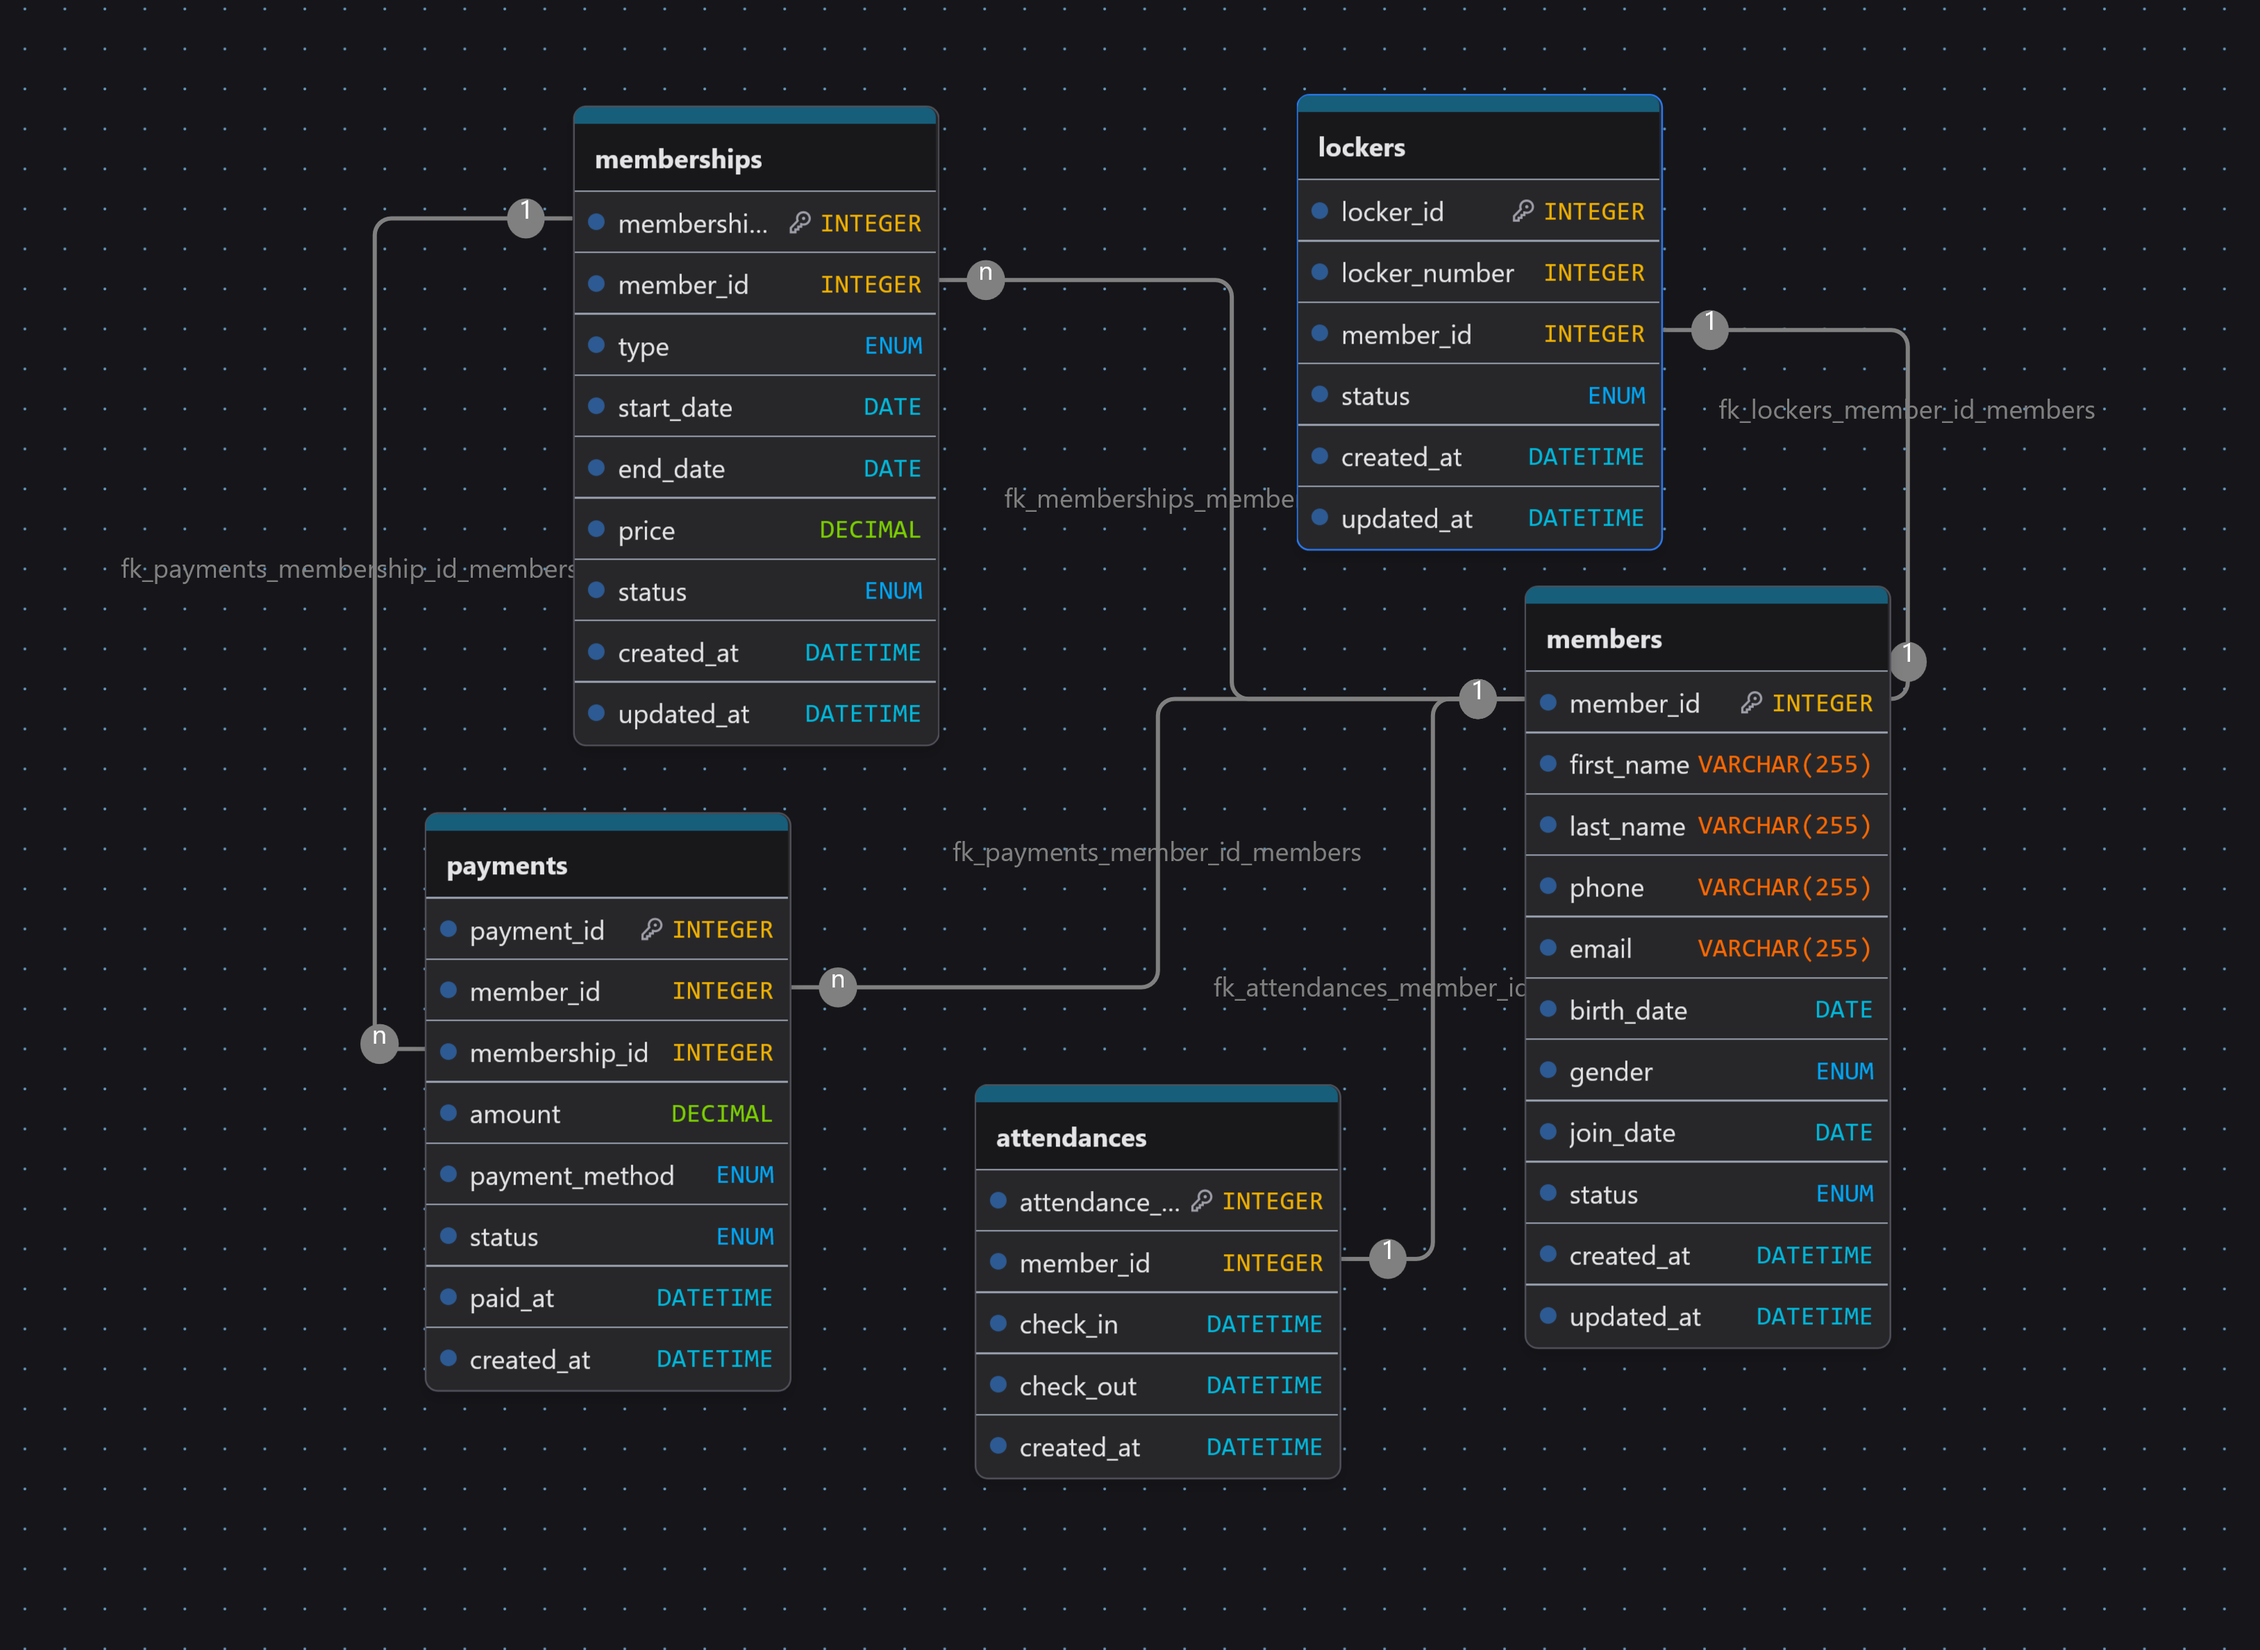
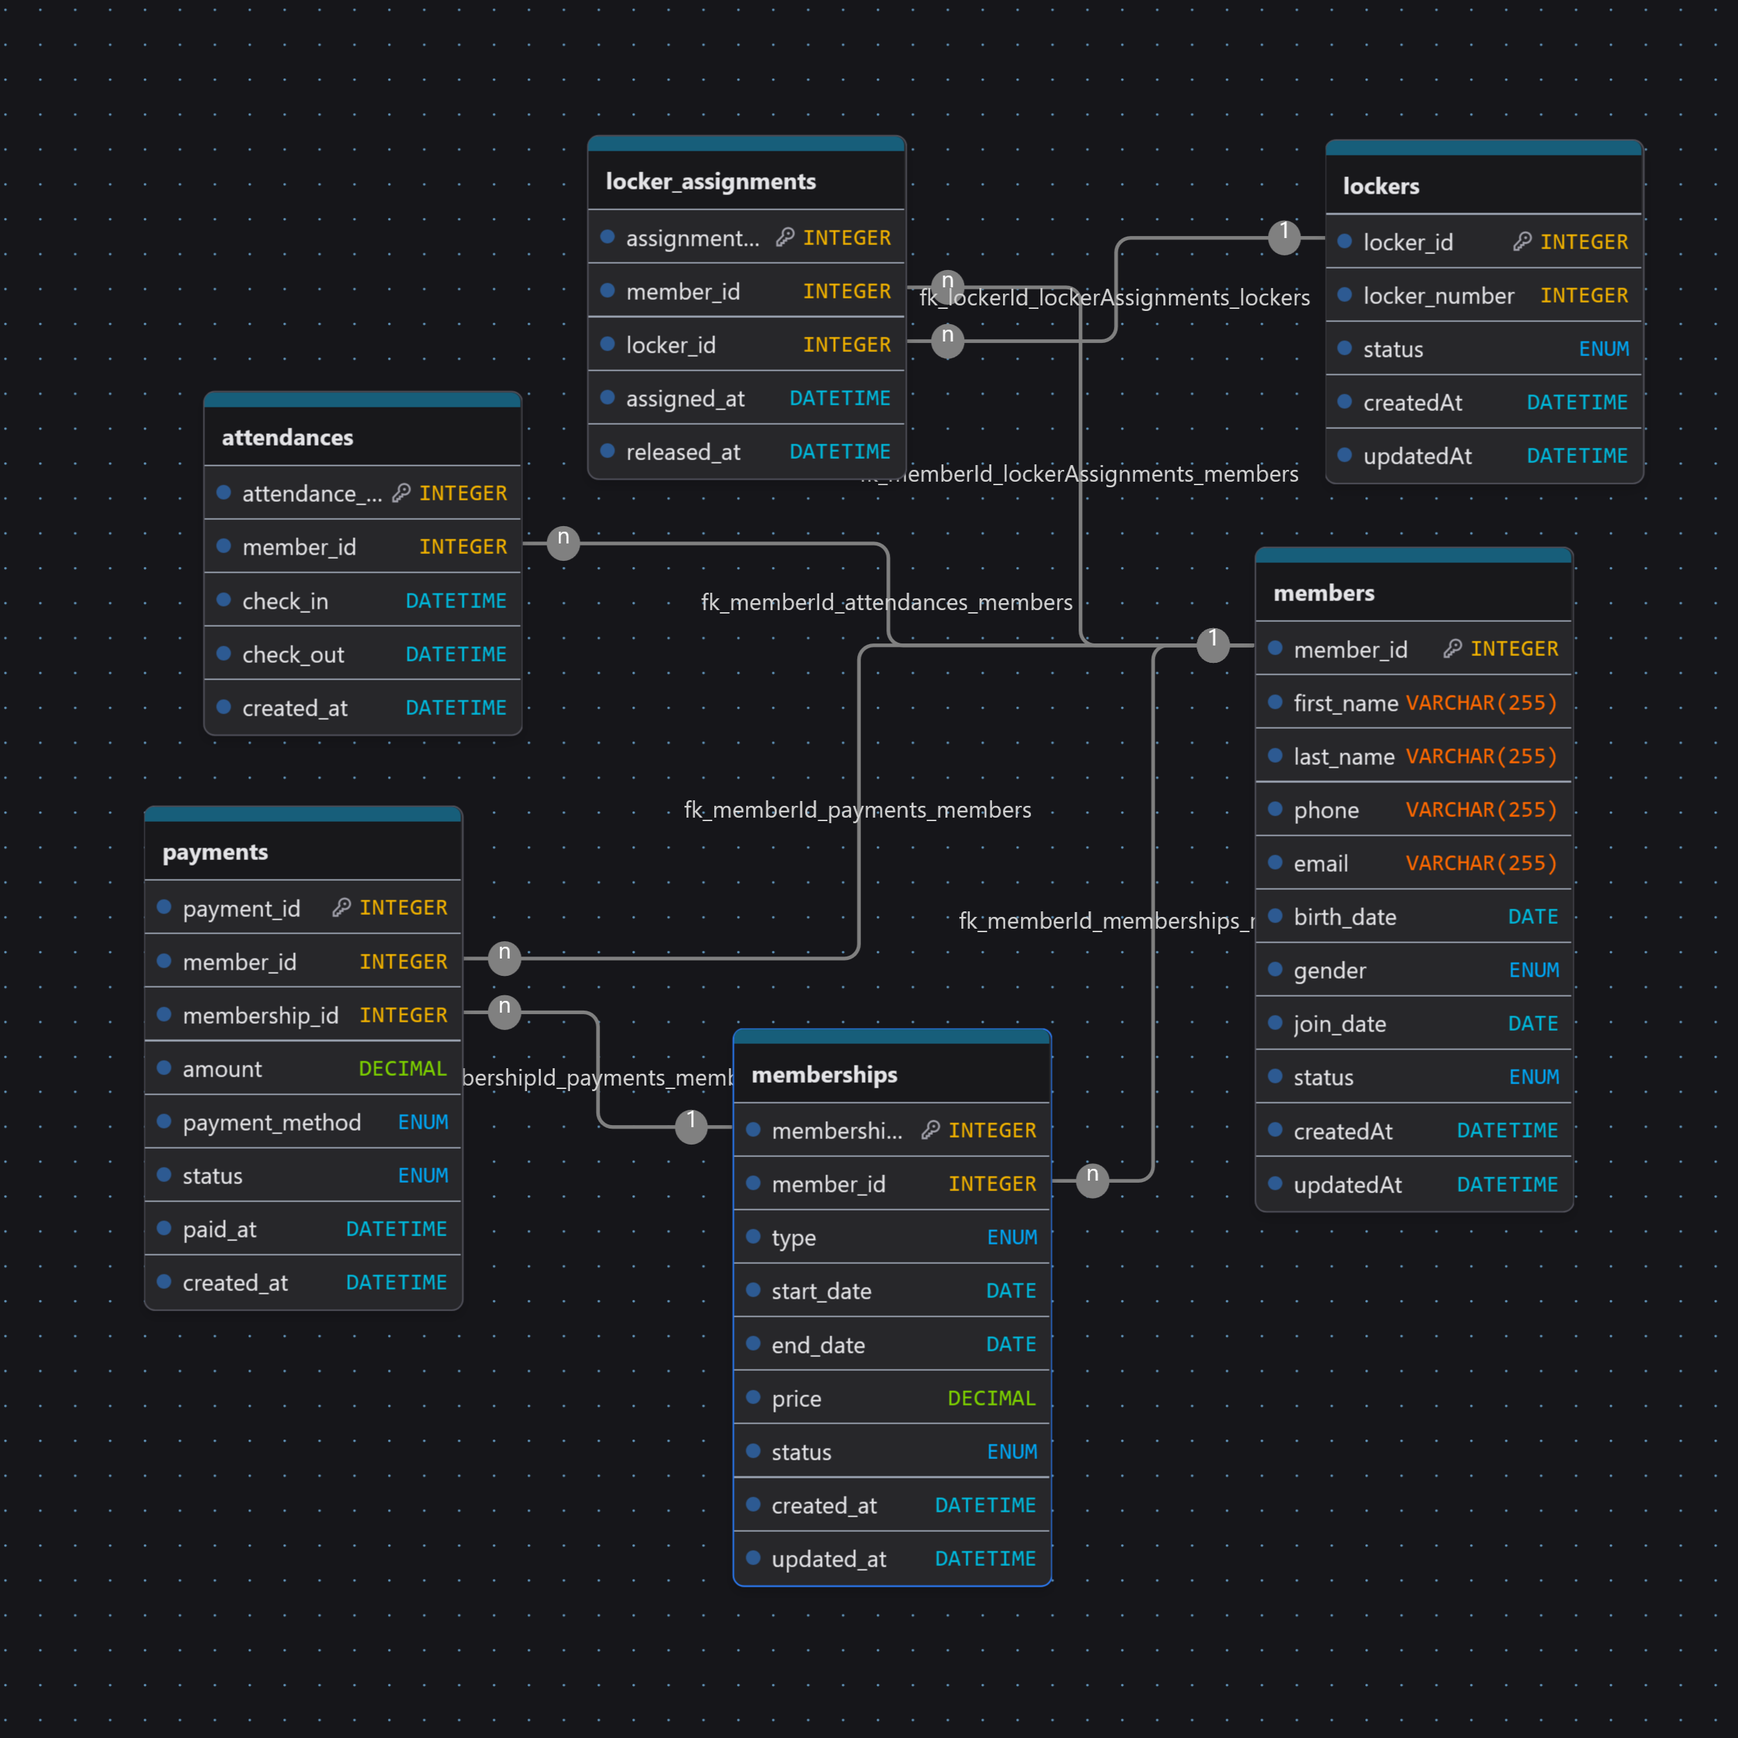
Update models

Changed region(s): [[0.0623, 0.0311, 0.9657, 0.9032], [0.4361, 0.436, 0.5919, 0.5606]]

diff --git a/backend/src/models/lockerAssignmentsModel.js b/backend/src/models/lockerAssignmentsModel.js
@@ -1,14 +1,15 @@
 import { DataTypes } from "sequelize";
 import database from "../database/db.js";
 import Member from "./membersModel.js";
+import Locker from "./lockersModel.js";
 
-const Attendance = database.define("Attendance", {
-    attendance_id: {
+const lockerAssignment = database.define("Locker_Assignments", {
+    assignment_id: {
         type: DataTypes.INTEGER,
         primaryKey: true,
         allowNull: false,
-        autoIncrement: true,
         unique: true,
+        autoIncrement: true,
     },
     member_id: {
         type: DataTypes.INTEGER,
@@ -18,14 +19,16 @@ const Attendance = database.define("Attendance", {
             key: "member_id",
         },
     },
-    check_in: {
-        type: DataTypes.DATE,
+    locker_id: {
+        type: DataTypes.INTEGER,
         allowNull: false,
+        references: {
+            model: Locker,
+            key: "locker_id",
+        },
     },
-    check_out: {
-        type: DataTypes.DATE,
-        allowNull: false,
-    },
+    assigned_at: { type: DataTypes.DATE, allowNull: false },
+    released_at: { type: DataTypes.DATE },
 });
 
-export default Attendance;
+export default lockerAssignment;

diff --git a/backend/src/models/lockersModel.js b/backend/src/models/lockersModel.js
@@ -1,6 +1,5 @@
 import { DataTypes } from "sequelize";
 import database from "../database/db.js";
-import Member from "./membersModel.js";
 
 const Locker = database.define("Locker", {
     locker_id: {
@@ -9,13 +8,6 @@ const Locker = database.define("Locker", {
         autoIncrement: true,
         unique: true,
         allowNull: false,
-    },
-    member_id: {
-        type: DataTypes.INTEGER,
-        references: {
-            model: Member,
-            key: "member_id",
-        },
     },
     locker_number: {
         type: DataTypes.INTEGER,

diff --git a/backend/src/models/paymentsModel.js b/backend/src/models/paymentsModel.js
@@ -15,6 +15,7 @@ const Payment = database.define(
         },
         member_id: {
             type: DataTypes.INTEGER,
+            allowNull: false,
             references: {
                 model: Member,
                 key: "member_id",
@@ -22,6 +23,7 @@ const Payment = database.define(
         },
         membership_id: {
             type: DataTypes.INTEGER,
+            allowNull: false,
             references: {
                 model: Membership,
                 key: "membership_id",

diff --git a/backend/src/server.js b/backend/src/server.js
@@ -13,6 +13,7 @@ import Locker from "./models/lockersModel.js";
 import Membership from "./models/membershipsModel.js";
 import Payment from "./models/paymentsModel.js";
 import Attendance from "./models/attendancesModel.js";
+import lockerAssignment from "./models/lockerAssignmentsModel.js";
 
 // Load .env file
 dotenv.config();

diff --git a/backend/src/models/membershipsModel.js b/backend/src/models/membershipsModel.js
@@ -12,6 +12,7 @@ const Membership = database.define("Membership", {
     },
     member_id: {
         type: DataTypes.INTEGER,
+        allowNull: false,
         references: {
             model: Member,
             key: "member_id",
